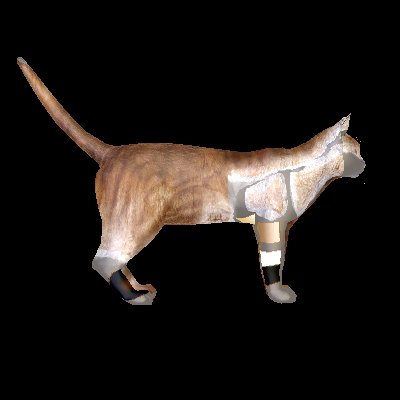
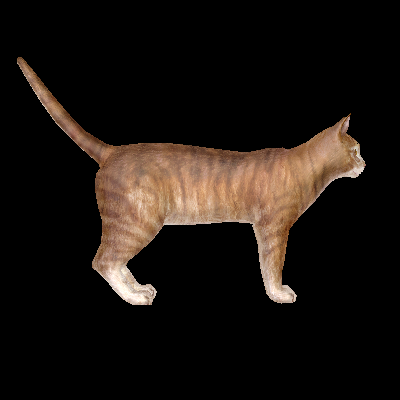
Update

Changed region(s): [[0.03, 0.12, 0.93, 0.78]]

diff --git a/raytrace_2/Code/scene.cpp b/raytrace_2/Code/scene.cpp
@@ -9,11 +9,14 @@
 #include <cmath>
 #include <limits>
 #include <iostream>
+#include <chrono>
 
 using namespace std;
 
 void Scene::render(Image &img) {
     tree = std::make_unique<KdTree>(objects, 0);
+
+    auto timeStart = std::chrono::steady_clock::now();
 
     unsigned w = img.width();
     unsigned h = img.height();
@@ -40,6 +43,9 @@ void Scene::render(Image &img) {
             img(x, y) = col;
         }
     }
+
+    auto timeEnd = std::chrono::steady_clock::now();
+    std::cout << "Time: " << std::chrono::duration_cast<chrono::milliseconds>(timeEnd - timeStart).count() << "\n";
 }
 
 // --- Misc functions ----------------------------------------------------------
@@ -48,13 +54,6 @@ bool Scene::traceObjects(Ray const &ray, int remainingRecursions, Color &color, 
     // Find hit object and distance
     Hit min_hit(numeric_limits<double>::infinity(), Vector());
     ObjectPtr obj = nullptr;
-//    for (unsigned idx = 0; idx != objects.size(); ++idx) {
-//        Hit hit(objects[idx]->intersect(ray));
-//        if (hit.t < min_hit.t) {
-//            min_hit = hit;
-//            obj = objects[idx];
-//        }
-//    }
 
     std::vector<KdTree*> treesLeft;
     treesLeft.push_back(tree.get());
@@ -106,12 +105,13 @@ bool Scene::traceObjects(Ray const &ray, int remainingRecursions, Color &color, 
     *        pow(a,b)           a to the power of b
     ****************************************************/
 
+    auto theColor = material.color;
     if (material.hasTexture()) {
         Point uvw = obj->getTextureCoords(hit);
-        color = material.texture->colorAt(static_cast<float>(uvw.x), static_cast<float>(uvw.y));
-    } else {
-        color = material.ka * material.color;
+        theColor = material.texture->colorAt(static_cast<float>(uvw.x), static_cast<float>(uvw.y));
     }
+
+    color = material.ka * material.color;
 
     for (const auto &light : lights) {
         Vector L = (light->position - hit).normalized();
@@ -128,7 +128,7 @@ bool Scene::traceObjects(Ray const &ray, int remainingRecursions, Color &color, 
 
         if (!inShadow) {
             // Diffuse component
-            color += material.kd * std::max(0.0, N.dot(L)) * material.color * light->color;
+            color += material.kd * std::max(0.0, N.dot(L)) * theColor * light->color;
             // Specular component
             color += material.ks * pow(std::max(0.0, R.dot(V)), material.n) * light->color;
         }
@@ -174,12 +174,25 @@ void Scene::setUseShadows(bool useShadows) {
 }
 
 Hit Scene::intersectsWithObject(const Ray &ray) {
-    for (unsigned idx = 0; idx != objects.size(); ++idx) {
-        Hit hit(objects[idx]->intersect(ray));
-        if (!isnan(hit.t)) {
-            return hit;
+    std::vector<KdTree*> treesLeft;
+    treesLeft.push_back(tree.get());
+    while (!treesLeft.empty()) {
+        auto ct = *treesLeft.rbegin();
+        treesLeft.pop_back();
+
+        if (ct->bb.intersects(ray)) {
+            for (const auto& co : ct->center) {
+                Hit hit(co->intersect(ray));
+                if (!isnan(hit.t)) {
+                    return hit;
+                }
+            }
+
+            if (ct->left) treesLeft.push_back(ct->left.get());
+            if (ct->right) treesLeft.push_back(ct->right.get());
         }
     }
+
     return Hit::NO_HIT();
 }
 

diff --git a/raytrace_2/Code/image.cpp b/raytrace_2/Code/image.cpp
@@ -57,9 +57,27 @@ unsigned Image::size() const
 
 // Normalized accessors, unsignederval is (0...1, 0...1)
 // usefull for texture access
-Color const &Image::colorAt(float x, float y) const
+Color const Image::colorAt(float x, float y) const
 {
+#ifdef RT_USE_BILINEAR_TEXTURE_FILTERING
+    x = x * d_width - 0.5;
+    y = y * d_height - 0.5;
+
+    auto rx = int(x);
+    auto ry = int(y);
+
+    double u_ratio = x - rx;
+    double v_ratio = y - ry;
+    double u_opposite = 1 - u_ratio;
+    double v_opposite = 1 - v_ratio;
+
+    Triple result = (d_pixels.at(index(rx, ry)) * u_opposite + d_pixels.at(index(rx + 1, ry)) * u_ratio) * v_opposite +
+            (d_pixels.at(index(rx, ry + 1)) * u_opposite + d_pixels.at(index(rx + 1, ry + 1)) * u_ratio) * v_ratio;
+
+    return result;
+#else
     return d_pixels.at(findex(x, y));
+#endif
 }
 
 void Image::write_png(std::string const &filename) const

diff --git a/raytrace_2/Code/image.h b/raytrace_2/Code/image.h
@@ -32,7 +32,7 @@ class Image
 
         // Normalized accessors, unsignederval is (0...1, 0...1)
         // usefull for texture access
-        Color const &colorAt(float x, float y) const;
+        Color const colorAt(float x, float y) const;
 
         void write_png(std::string const &filename) const;
         void read_png(std::string const &filename);
@@ -40,7 +40,8 @@ class Image
     private:
         inline unsigned index(unsigned x, unsigned y) const
         {
-            return y * d_width + x;
+            auto asd = y * d_width + x;
+            return asd;
         }
 
         inline unsigned findex(float x, float y) const

diff --git a/raytrace_2/Code/shapes/sphere.cpp b/raytrace_2/Code/shapes/sphere.cpp
@@ -39,7 +39,9 @@ Hit Sphere::intersect(Ray const &ray) {
     return Hit(t0, N);
 }
 
-Sphere::Sphere(Point const &pos, double radius) : position(pos), r(radius), hasRotation(false) {}
+Sphere::Sphere(Point const &pos, double radius) : position(pos), r(radius), hasRotation(false) {
+    bb = BoundingBox(pos - radius, pos + radius);
+}
 
 Sphere::Sphere(Point const &pos, double radius, Vector rotAxis, double rotAngle)
         : Sphere(pos, radius) {

diff --git a/raytrace_2/Code/shapes/MeshTriangle.cpp b/raytrace_2/Code/shapes/MeshTriangle.cpp
@@ -16,9 +16,9 @@ MeshTriangle::MeshTriangle(Vertex const &v0, Vertex const &v1, Vertex const &v2)
     n1 = Point(v1.nx, v1.ny, v1.nz);
     n2 = Point(v2.nx, v2.ny, v2.nz);
 
-    t0 = Point(v0.u, v0.v, 0);
-    t1 = Point(v1.u, v1.v, 0);
-    t2 = Point(v2.u, v2.v, 0);
+    t0 = Point(v0.u, 1.0 - v0.v, 0);
+    t1 = Point(v1.u, 1.0 - v1.v, 0);
+    t2 = Point(v2.u, 1.0 - v2.v, 0);
 
     bb += p0;
     bb += p1;

diff --git a/raytrace_2/Code/raytracer.cpp b/raytrace_2/Code/raytracer.cpp
@@ -175,7 +175,7 @@ catch (exception const &ex) {
 
 void Raytracer::renderToFile(string const &ofname) {
     // TODO: the size may be a settings in your file
-    Image img(400, 400);
+    Image img(1600, 1600);
     cout << "Tracing on " << omp_get_max_threads() << " threads...\n";
     scene.render(img);
     cout << "Writing image to " << ofname << "...\n";

diff --git a/raytrace_2/Code/main.cpp b/raytrace_2/Code/main.cpp
@@ -1,3 +1,4 @@
+#define RT_USE_BILINEAR_TEXTURE_FILTERING
 #include "raytracer.h"
 
 #include <iostream>

diff --git a/raytrace_2/DEMO.md b/raytrace_2/DEMO.md
@@ -1,0 +1,24 @@
+#Raytracer - Demo
+
+We have extended the raytracer code from the assignments with the following items:
+- Interpolating normals for a mesh
+- Texture support for a mesh
+- (Optional) bilinear filtering for textures
+- k-d tree for objects (only Sphere/MeshTriangle supported)
+- OpenMP
+
+# Texture & normal interpolation
+We load the texture coordinates and normals from each model `Vertex` in the `MeshTriangle` class.
+
+The interpolation for both the coordinates and normals happen using barycentric coordinates.
+
+The point of impact from the ray gets converted to barycentric coordinates and then these are used to get a weighted average of the normals and texture coordinates.
+
+# Bilinear filtering
+The `Image` class has been modified to be able to use bilinear texture filtering.
+
+You can enable/disable this feature by defining `RT_USE_BILINEAR_TEXTURE_FILTERING`
+
+![No bilinear filtering](Screenshots/a.png) ![Bilinear filtering](Screenshots/b.png)
+
+(left: no bilinear filtering, right: bilinear filtering enabled)
